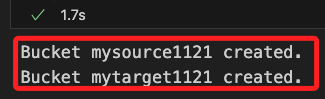
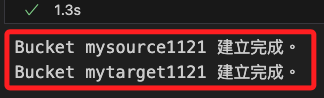
Commit on 2024-11-22 06:08:37

diff --git a/01_課程筆記/1121_B09/01_Lambda/02_監聽 S3.md b/01_課程筆記/1121_B09/01_Lambda/02_監聽 S3.md
@@ -265,7 +265,7 @@ _使用 SDK 逐步進行_
         ZipFile=zip_file_content
     )
 
-    print("Lambda function updated successfully:", response)
+    print("成功上傳 Lambda function：", response)
     ```
 
     ![](images/img_08.png)
@@ -295,54 +295,129 @@ _監聽的來源與寫入的目標_
     target_bucket_name = 'mytarget1121'
 
     # 建立來源 Bucket
-    # us-east-1 不需要指定 LocationConstraint
     s3.create_bucket(Bucket=source_bucket_name)
-    print(f"Bucket {source_bucket_name} created.")
+    print(f"Bucket {source_bucket_name} 建立完成。")
 
     # 建立目標 Bucket
     s3.create_bucket(Bucket=target_bucket_name)
-    print(f"Bucket {target_bucket_name} created.")
+    print(f"Bucket {target_bucket_name} 建立完成。")
     ```
 
     ![](images/img_10.png)
 
 <br>
 
-2. 確保 S3 取得調用 Lambda 的權限。
+2. 檢查 Lambda 函數是否已具備 S3 調用權限。
 
     ```python
-    # 初始化 Lambda 客戶端
-    lambda_client = boto3.client('lambda')
+    # 權限的唯一識別 ID
+    statement_id = 'S3InvokePermission'
 
-    # Lambda Function 名稱與來源 Bucket
-    function_name = 'myfunction112102'
-    source_bucket_name = 'mysource1121'
+    try:
+        # 獲取 Lambda 函數的資源型策略
+        policy_response = lambda_client.get_policy(FunctionName=function_name)
+        policy = policy_response['Policy']
 
-    # 取得 Lambda ARN
-    lambda_response = lambda_client.get_function(FunctionName=function_name)
-    lambda_arn = lambda_response['Configuration']['FunctionArn']
+        print(f"Lambda 函數 {function_name} 當前的資源型策略：")
+        print(policy)
 
-    # 添加授權，允許 S3 調用 Lambda
-    response = lambda_client.add_permission(
-        FunctionName=function_name,
-        StatementId='S3InvokePermission',
-        Action='lambda:InvokeFunction',
-        Principal='s3.amazonaws.com',
-        SourceArn=f'arn:aws:s3:::{source_bucket_name}'
-    )
+        # 解析策略並檢查是否已存在指定權限
+        policy_doc = json.loads(policy)
+        statements = policy_doc.get('Statement', [])
 
-    print(f"Permission added for S3 to invoke Lambda function: {response}")
+        permission_exists = any(
+            stmt.get('Sid') == statement_id and
+            stmt.get('Principal') == 's3.amazonaws.com' and
+            stmt.get('Action') == 'lambda:InvokeFunction' and
+            stmt.get('Condition', {}).get('ArnLike', {}).get('AWS:SourceArn') == f'arn:aws:s3:::{source_bucket_name}'
+            for stmt in statements
+        )
+
+        if permission_exists:
+            print(
+                f"權限已存在：S3 Bucket '{source_bucket_name}' "
+                f"已被授權調用 Lambda 函數 {function_name}，"
+                f"權限 ID 為 '{statement_id}'。"
+            )
+        else:
+            print(
+                f"權限不存在：S3 Bucket '{source_bucket_name}' "
+                f"尚未被授權調用 Lambda 函數 {function_name}。"
+                "建議添加此權限。"
+            )
+
+    except lambda_client.exceptions.ResourceNotFoundException:
+        print(
+            f"錯誤：Lambda 函數 {function_name} 不存在。"
+            "請確認函數名稱是否正確。"
+        )
+    except Exception as e:
+        print(f"發生錯誤：{e}")
+    ```
+
+<br>
+
+3. 檢查並授權。
+
+    ```python
+    try:
+        # 檢查 Lambda 函數是否存在
+        lambda_response = lambda_client.get_function(FunctionName=function_name)
+        lambda_arn = lambda_response['Configuration']['FunctionArn']
+        print(f"Lambda 函數 {function_name} 存在，ARN：{lambda_arn}")
+
+        # 嘗試獲取資源型策略
+        try:
+            policy_response = lambda_client.get_policy(FunctionName=function_name)
+            policy = json.loads(policy_response['Policy'])
+            statements = policy.get('Statement', [])
+
+            # 檢查是否已存在指定的 StatementId
+            for stmt in statements:
+                if stmt.get('Sid') == statement_id:
+                    print(f"權限已存在：StatementId '{statement_id}' 已存在於 Lambda 策略中。")
+                    print("現有權限內容：", json.dumps(stmt, indent=4, ensure_ascii=False))
+                    break
+            else:
+                # 若未找到該 StatementId，則添加新授權
+                response = lambda_client.add_permission(
+                    FunctionName=function_name,
+                    StatementId=statement_id,
+                    Action='lambda:InvokeFunction',
+                    Principal='s3.amazonaws.com',
+                    SourceArn=f'arn:aws:s3:::{source_bucket_name}'
+                )
+                print(f"成功添加新的授權：{response}")
+
+        except lambda_client.exceptions.ResourceNotFoundException:
+            print(f"Lambda 函數 {function_name} 尚無資源型策略，直接添加授權。")
+
+            # 如果策略不存在，直接添加授權
+            response = lambda_client.add_permission(
+                FunctionName=function_name,
+                StatementId=statement_id,
+                Action='lambda:InvokeFunction',
+                Principal='s3.amazonaws.com',
+                SourceArn=f'arn:aws:s3:::{source_bucket_name}'
+            )
+            print(f"成功添加新的授權：{response}")
+
+    except boto3.exceptions.Boto3Error as e:
+        print(f"發生錯誤：{e}")
+
     ```
 
     ![](images/img_11.png)
 
 <br>
 
-7. 配置 S3 Bucket 事件通知。
+## 建立觸發事件
+
+1. 配置指定 Bucket 事件通知。
 
     ```python
     # 初始化 S3 客戶端
-    s3_client = boto3.client('s3', region_name='us-east-1')
+    s3_client = boto3.client('s3')
 
     # 配置 S3 Bucket 事件通知
     response = s3_client.put_bucket_notification_configuration(
@@ -359,8 +434,8 @@ _監聽的來源與寫入的目標_
     )
 
     print(
-        f"S3 event notification configured for bucket {source_bucket_name} "
-        f"to trigger Lambda {function_name}."
+        f"S3 Bucket {source_bucket_name} 已配置事件通知，"
+        f"觸發 Lambda 函數 {function_name}。"
     )
     ```
 
